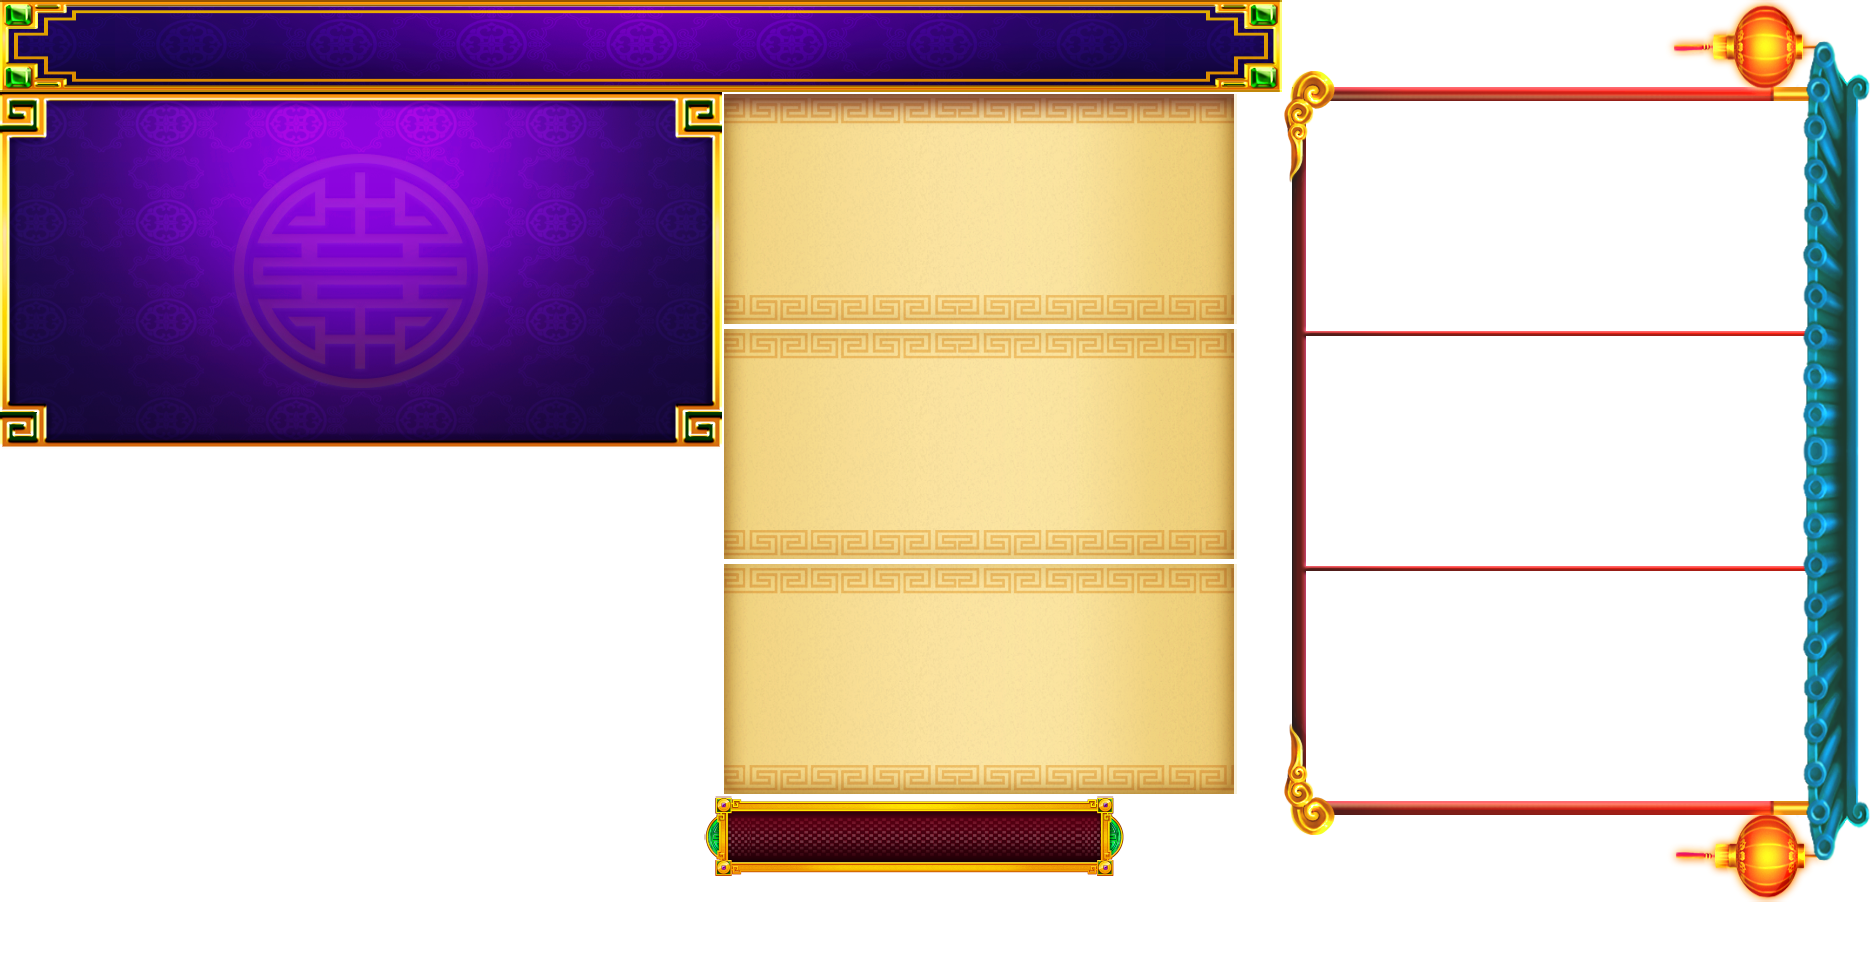
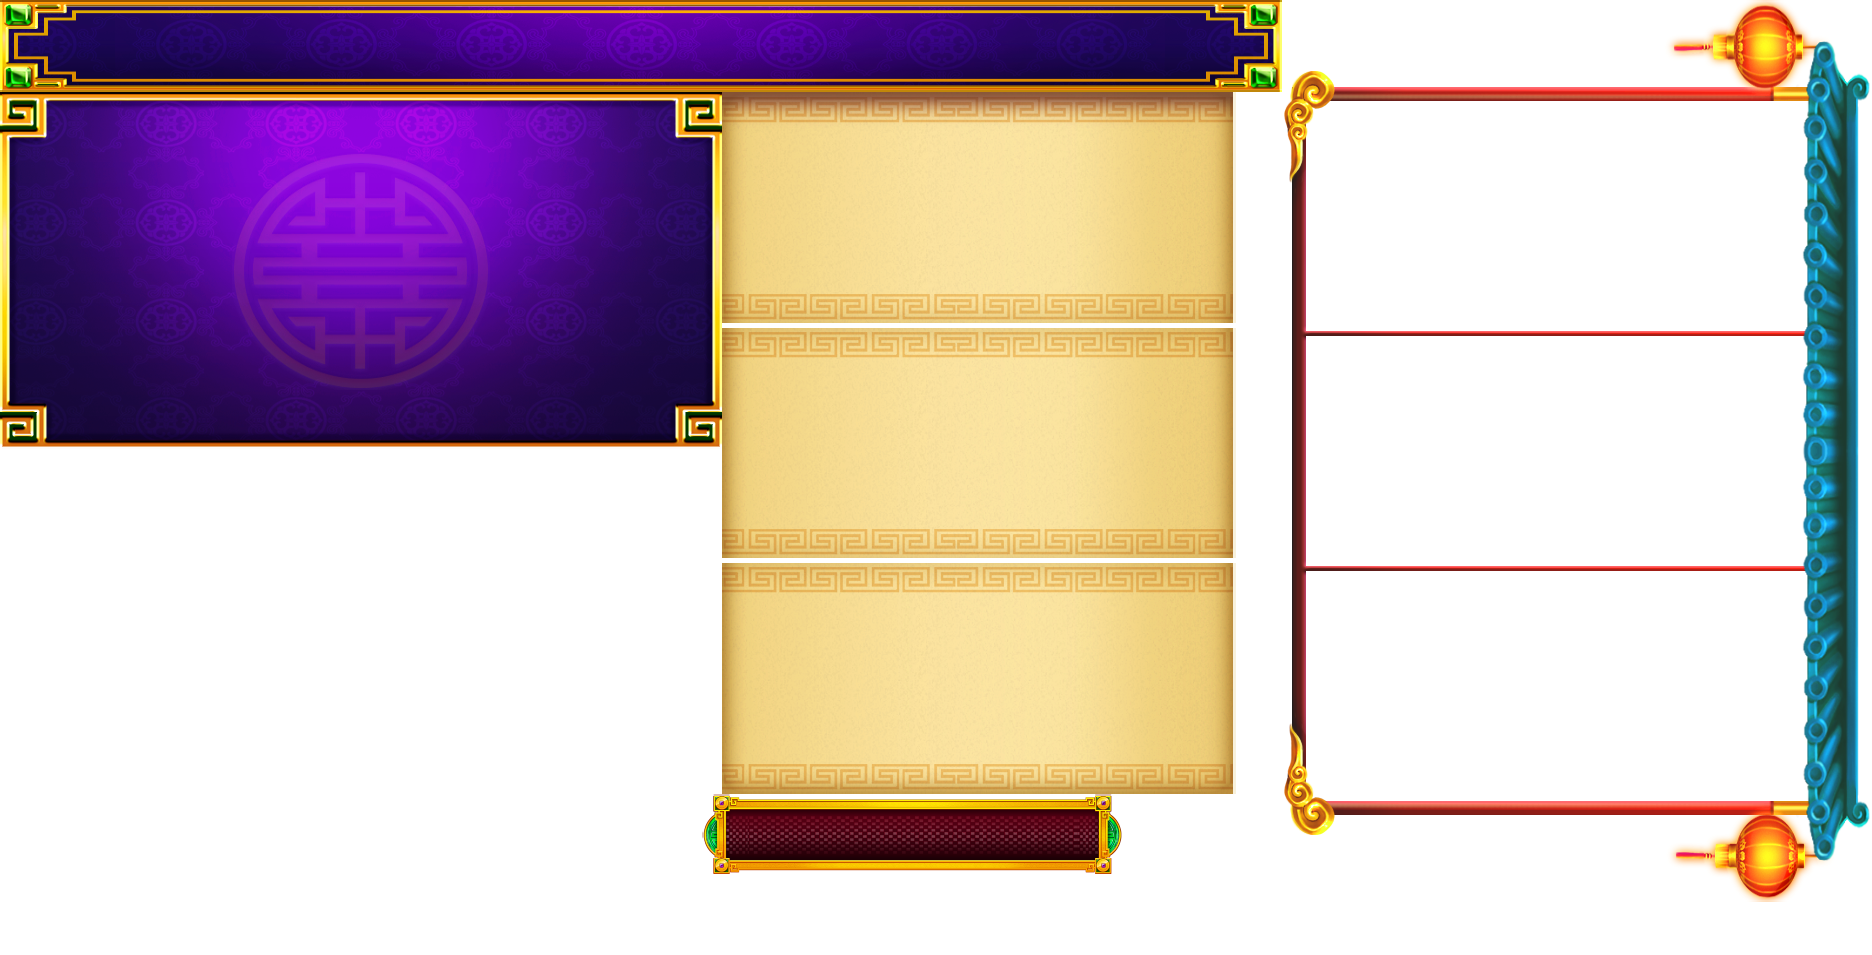
移除 滾輪底板、滾輪遮罩 的透明度 調整 滾輪底辦、滾輪遮罩 的位置 點擊畫面的事件改綁到滾輪底版上

diff --git a/src/Game/Reel/ReelController.ts b/src/Game/Reel/ReelController.ts
@@ -95,8 +95,6 @@ export default class ReelController{
         this.reelContainer = new Container('reel container')
         this.reelContainer.sortableChildren = true
         this.reelContainer.pivot.copyFrom(reelContPivot)
-        this.reelContainer.interactive = this.reelContainer.buttonMode = true
-        this.reelContainer.on('pointerdown', ()=> EventHandler.dispatch(eEventName.startSpin))
     }
 
     /** 初始化滾輪底板 */
@@ -104,13 +102,16 @@ export default class ReelController{
         this.reelBackground = this.reelContainer.addChild(new Sprite('Reel_Back.png'))
         this.reelBackground.zIndex = eReelContainerLayer.reelBg
         this.reelBackground.position.copyFrom(window.reelBgPos)
+        // 點擊事件寫在底板上
+        this.reelBackground.buttonMode = this.reelBackground.interactive = true
+        this.reelBackground.on('pointerdown', ()=> EventHandler.dispatch(eEventName.startSpin))
     }
 
     /** 初始化滾輪框 */
     private static initReelFrame(){
         this.reelFrame = this.reelContainer.addChild(new Sprite('Reel_Frame.png'))
         this.reelFrame.zIndex = eReelContainerLayer.reelFrame
-        this.reelFrame.position.copyFrom(window.reelBgPos)
+        this.reelFrame.position.copyFrom(window.reelFramePos)
     }
 
     /** 初始化滾輪的遮罩 */
@@ -133,7 +134,7 @@ export default class ReelController{
 
             case eReelType._3x3_reel:
                 this.mask = this.reelContainer.addChild(new Sprite('Reel_Mask.png'))
-                this.mask.position.copyFrom(window.reelBgPos)
+                this.mask.position.copyFrom(window.reelMaskPos)
             break
         } 
     }

diff --git a/src/Game/GameController/NG_GameController.ts b/src/Game/GameController/NG_GameController.ts
@@ -153,9 +153,9 @@ class EndSpin extends GameState{
             await BigWinManager.playBigWin(App.stage, BetModel.getInstance().TotalBet, BetModel.getInstance().Win)
 
             EventHandler.dispatch(eGameEventName.activeBlackCover, {flag: true})
-            console.log('win', BetModel.getInstance().Win,  ' credit', BetModel.getInstance().credit)
+
+            // 跑全線時顯示加過的credit
             BetModel.getInstance().addCredit(BetModel.getInstance().Win)
-            console.log('add credit', BetModel.getInstance().credit)
             await LineManager.playFG_AllLineWin(WinLineInfos, BetModel.getInstance().Win)
             await LineManager.playFG_EachLine()
         }else if(isWin){            

diff --git a/globalDef.ts b/globalDef.ts
@@ -109,7 +109,8 @@ switch(window.reelType){
 
         window.logoPos = new PIXI.Point(125, -35)
         window.reelContScale = 1
-        window.reelBgPos = new PIXI.Point(-335, -70)
+        window.reelBgPos = new PIXI.Point(-237, 0)
+        window.reelFramePos = new PIXI.Point(-335, -70)
         window.reelMaskPos = window.reelBgPos
 
     break

diff --git a/dev.d.ts b/dev.d.ts
@@ -100,6 +100,7 @@ interface Window{
     LineNumberDef: {[key: number]: IDefConfig}
     logoPos: PIXI.Point
     reelContScale: number
+    reelFramePos: PIXI.Point
     reelBgPos: PIXI.Point
     reelMaskPos: PIXI.Point
 
